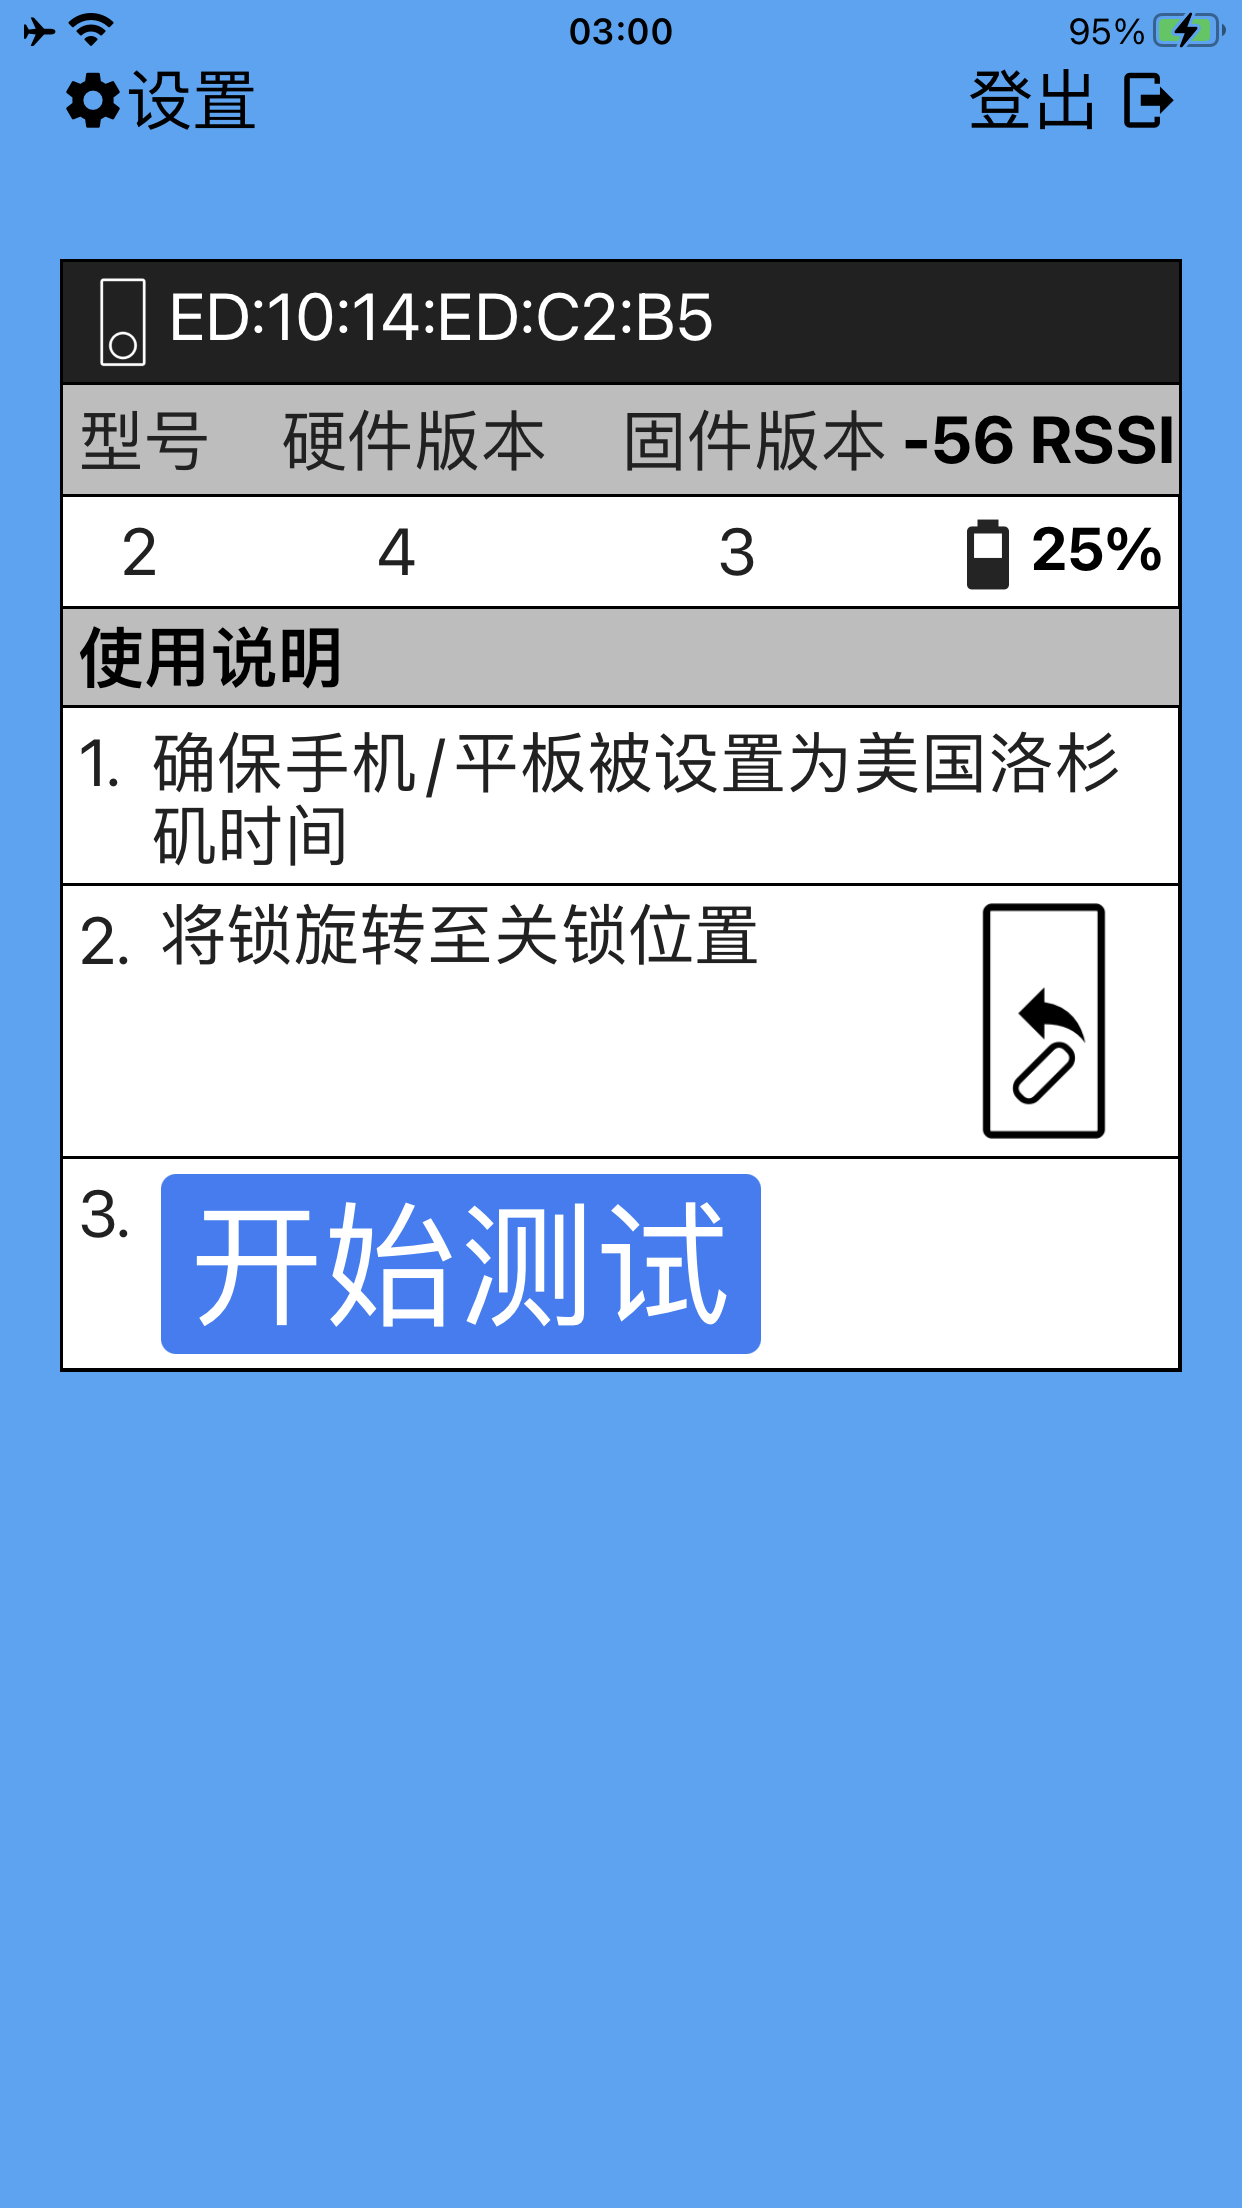
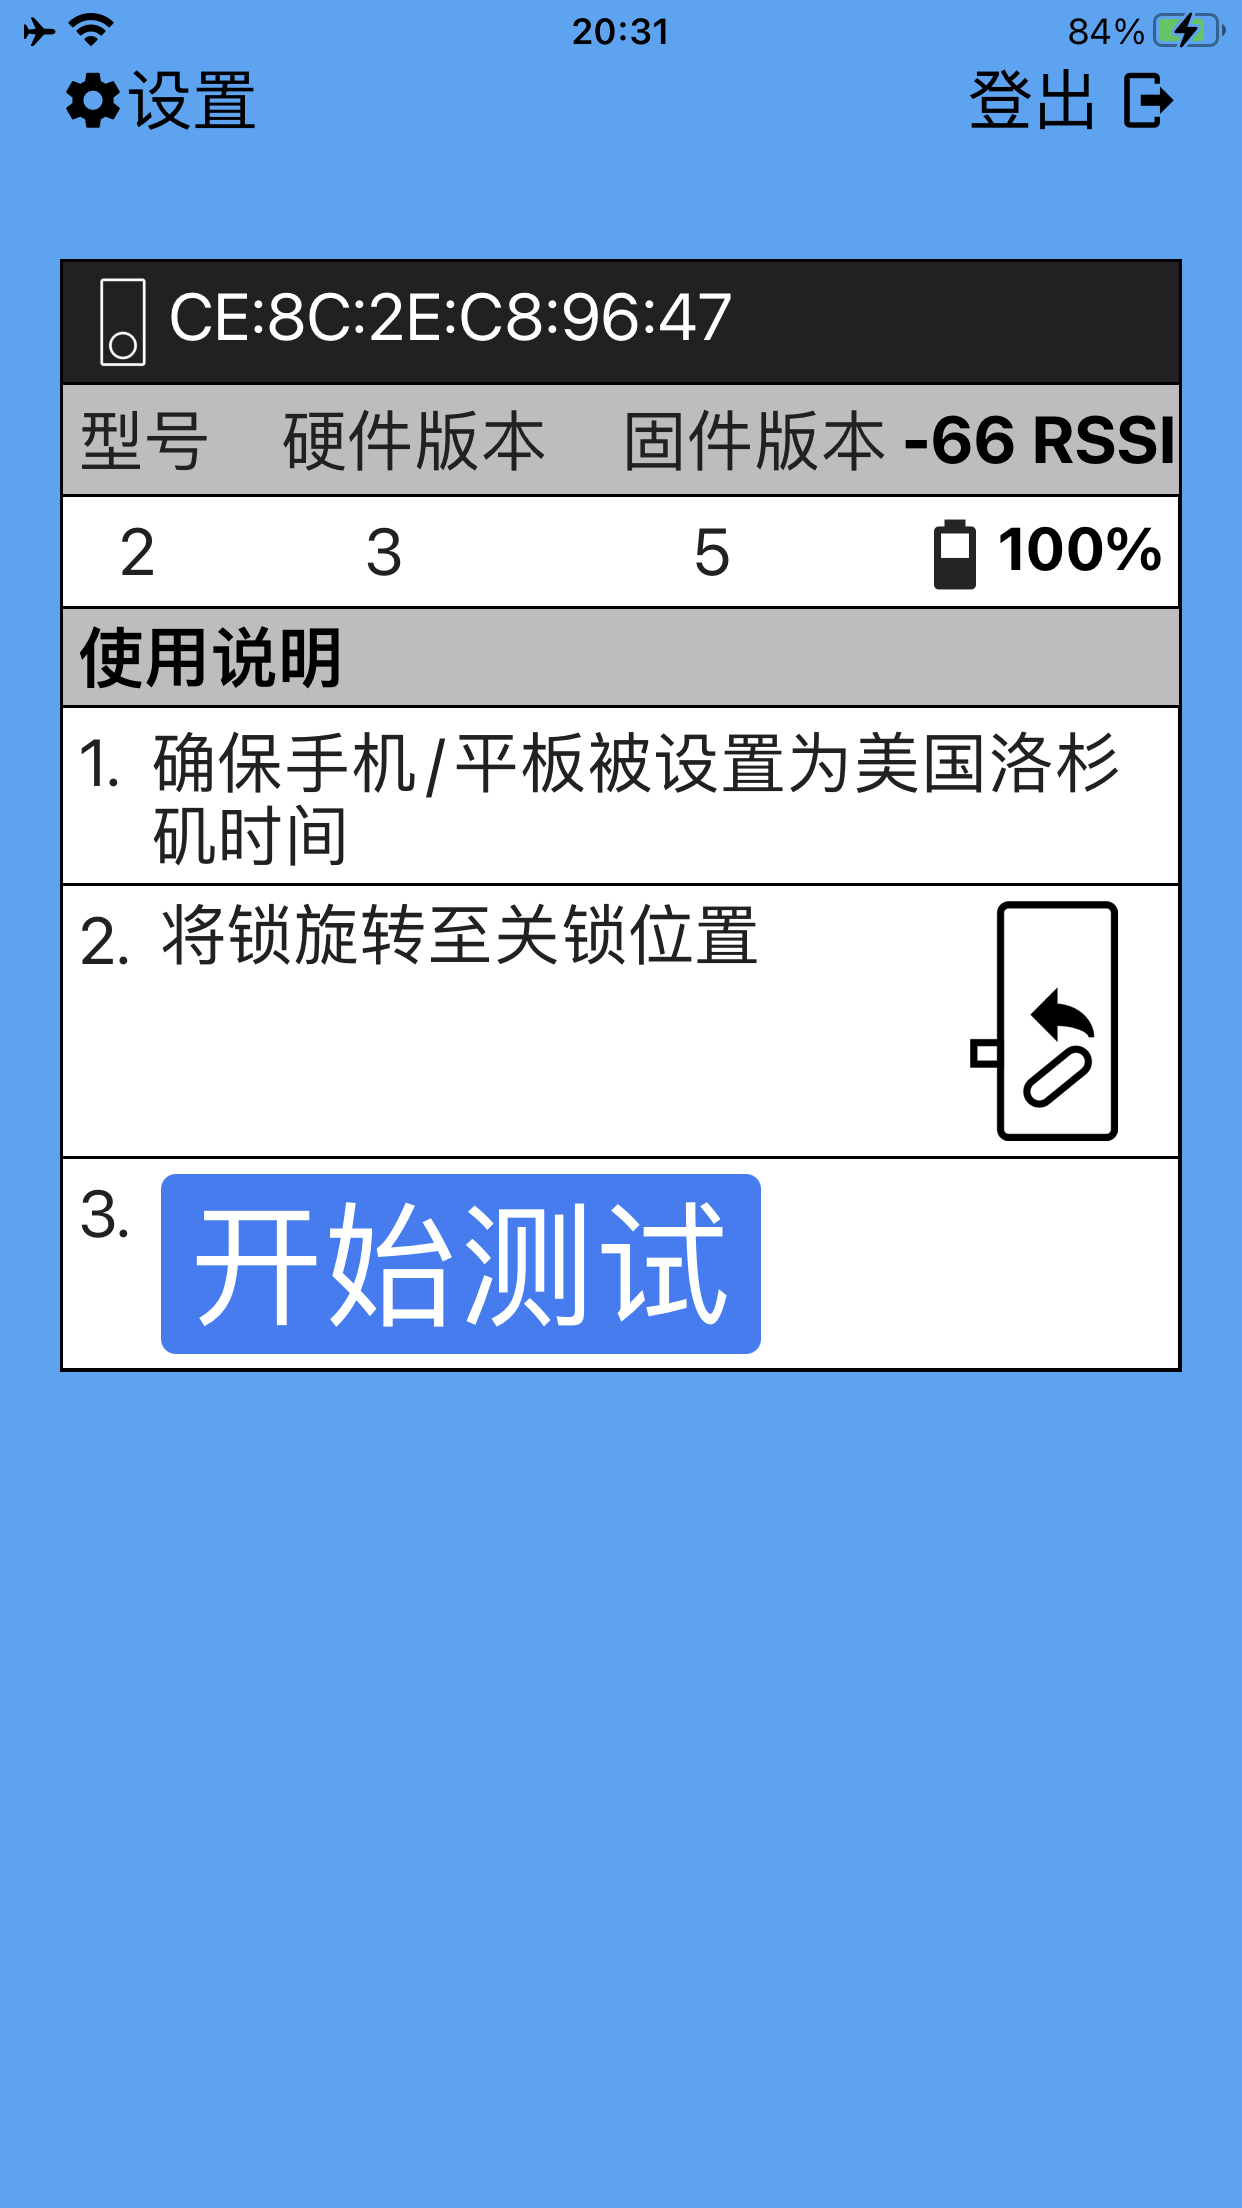
update introduction image all API call will throw error add sapphire and white team env show version number fix Alert.alert conflicts

diff --git a/app/store/sagas/testSaga.js b/app/store/sagas/testSaga.js
@@ -33,7 +33,7 @@ import {
   gotOfflineCode,
   uploadSerialNoFailed,
   uploadSerialNoSuccess,
-  endTest,
+  // endTest,
   clearTest,
 } from '../actions/testActions';
 import API from '../../services/API';
@@ -46,7 +46,7 @@ import { SUCCESS } from '../actions/types';
 
 export function* verifyBroadcastInfoAsync({ payload: lockObj }) {
   const { lockMac, modelNum, hardwareVer, firmwareVer, rssi, battery } = lockObj;
-  const { locks:{ criteria } } = yield select();
+  const { criteria } = yield select(state => state.locks);
   yield put(verifyBroadcastInfo({ lockMac, modelNum, hardwareVer, firmwareVer, rssi, battery }));
 
   const errors = [];
@@ -57,8 +57,7 @@ export function* verifyBroadcastInfoAsync({ payload: lockObj }) {
   if (battery > 100 || battery < criteria.battery) errors.push(strings('Test.InvalidBattery'));
   if (errors.length === 0) {
     try {
-      const res = yield API.addLockToDMS(lockObj.lockMac, lockObj.deviceID);
-      if (!res.success) throw new Error('/addLockToDMS API failed: ' + JSON.stringify(res));
+      yield API.addLockToDMS(lockObj.lockMac, lockObj.deviceID);
       return yield put(verifyBroadcastInfoSuccess());
     } catch (error) {
       return yield put(verifyBroadcastInfoFailed(error));
@@ -88,7 +87,6 @@ export function* initializeLockAsync() {
   const { test: { lockObj }, auth: { isB2b } } = yield select();
   try {
     yield lockObj.addAdministrator();
-    //TODO test reset button
     if (!isB2b) yield lockObj.setResetButton(true);
     yield put(initializeLockSuccess());
   } catch (error) {
@@ -98,7 +96,7 @@ export function* initializeLockAsync() {
 
 export function* testRTCAsync() {
   yield put(testRTC());
-  const { test: { lockObj } } = yield select();
+  const { lockObj } = yield select(state => state.test);
   try {
     const promise = API.setDeviceTimezone(lockObj.lockMac, lockObj.deviceAuthToken);
     yield lockObj.setLockTime();
@@ -109,8 +107,7 @@ export function* testRTCAsync() {
     if (diff < 0 || diff > 5000) {
       throw new Error(strings('Test.RTCError') + (diff / 1000) + 's. ' + strings('Test.RTCRange'));
     }
-    const res = yield promise;
-    if (!res.success) throw new Error('/setDeviceTimezone API failed: ' + JSON.stringify(res));
+    yield promise;
     yield put(testRTCSuccess());
   } catch (error) {
     yield put(testRTCFailed(error));
@@ -119,7 +116,7 @@ export function* testRTCAsync() {
 
 export function* testHallAsync() {
   yield put(testHall());
-  const { test: { lockObj } } = yield select();
+  const { lockObj } = yield select(state => state.test);
   try {
     yield lockObj.unlock();
     yield put(testHallSuccess());
@@ -130,7 +127,7 @@ export function* testHallAsync() {
 
 export function* testDoorSensorAsync() {
   yield put(testDoorSensor());
-  const { test: { lockObj } } = yield select();
+  const { lockObj } = yield select(state => state.test);
   try {
     const { doorSensorEnabled } = yield lockObj.isDoorSensorEnabled();
     if (!doorSensorEnabled) throw new Error(strings('Test.doorSensorDisabled'));
@@ -142,7 +139,7 @@ export function* testDoorSensorAsync() {
 
 export function* testTouchKeyAsync() {
   yield put(testTouchKey());
-  const { test: { lockObj } } = yield select();
+  const { lockObj } = yield select(state => state.test);
   try {
     // const { keys } = yield lockObj.sendFactoryTestingCommand(1);
     // if (!keys.every(key => key === true)) {
@@ -158,7 +155,7 @@ export function* testTouchKeyAsync() {
 
 export function* testNfcChipAsync() {
   yield put(testNfcChip());
-  const { test: { lockObj } } = yield select();
+  const { lockObj } = yield select(state => state.test);
   try {
     // let { fobNumber } = yield lockObj.sendFactoryTestingCommand(2);
     // fobNumber = parseInt(fobNumber, 16).toString().padStart(10, '0');
@@ -176,7 +173,7 @@ export function* testNfcChipAsync() {
 
 export function* testAutoLockAsync() {
   yield put(testAutoLock());
-  const { test: { lockObj } } = yield select();
+  const { lockObj } = yield select(state => state.test);
   try {
     yield lockObj.setAutoLockTime(1);
     yield put(testAutoLockSuccess());
@@ -195,10 +192,6 @@ export function* testOfflineCodeAsync() {
     const req1 = API.createAutoCode(lockMac, deviceAuthToken);
     const req2 = API.updateDeviceBySuperAdmin(params);
     const res = yield Promise.all([req1, req2]);
-    // if (!res[0].success) throw res[0];
-    if (!res[0].success) throw new Error('/createAutoCode API failed: ' + JSON.stringify(res[0]));
-    // if (!res[1].success) throw res[1];
-    if (!res[1].success) throw new Error('/updateDeviceBySuperAdmin API failed: ' + JSON.stringify(res[1]));
     yield put(gotOfflineCode(res[0].code));
   } catch (error) {
     yield put(testOfflineCodeFailed(error));
@@ -228,10 +221,13 @@ export function* uploadSerialNoAsync({ payload: serialNoStr }) {
       throw new Error(serialNoStr + ' - ' + strings('Test.invalidSN'));
     }
     const params = { deviceMac: lockMac, batchNum: batchNo, serialNo };
-    const res = yield API.updateDeviceBySuperAdmin(params);
-    if (!res.success) {
-      if (res.errorCode === 1201) throw new Error(serialNoStr + ' - ' + strings('Test.duplicateSN'));
-      throw new Error(serialNoStr + ' - ' + '/updateDeviceBySuperAdmin API failed: ' + JSON.stringify(res));
+    try {
+      yield API.updateDeviceBySuperAdmin(params);
+    } catch (error) {
+      if (error.message.slice(-5, -1) === '1201') {
+        throw new Error(strings('Test.duplicateSN'));
+      }
+      throw error;
     }
     if (localServerIp) {
       yield postToLocalServer(localServerIp, serialNoStr).catch(error => {
@@ -246,11 +242,9 @@ export function* uploadSerialNoAsync({ payload: serialNoStr }) {
 }
 //TODO add all incomplete cases
 export function* uploadTestRecordAsync({ payload: isReset }) {
-  // yield put(uploadTestRecord());
   const {
     lockObj: { lockMac },
     testBroadcastState,
-    // registerLockToDMSState,
     initLockState,
     testRTCState,
     testHallState,
@@ -263,10 +257,8 @@ export function* uploadTestRecordAsync({ payload: isReset }) {
     serialNo,
     error,
   } = yield select(state => state.test);
-  // const test = yield select(state => state.test);
 
   let errorCode = (testBroadcastState !== SUCCESS) ? 1 :
-    // (registerLockToDMSState !== SUCCESS) ? 2 :
     (initLockState !== SUCCESS) ? 2 :
       (testRTCState !== SUCCESS) ? 3 :
         (testHallState !== SUCCESS) ? 4 :
@@ -282,7 +274,6 @@ export function* uploadTestRecordAsync({ payload: isReset }) {
     const errorInfo = [
       'Success',
       'Verify broadcast failed',
-      // 'Register to DMS failed',
       'Init failed',
       'Test RTC failed',
       'Test hall failed',

diff --git a/app/screens/TestModal/index.js b/app/screens/TestModal/index.js
@@ -23,6 +23,7 @@ import {
   endTest,
 } from '../../store/actions/testActions';
 import { strings } from '../../utils/i18n';
+import { Alert_alertIOS } from '../../utils';
 
 const Step1 = () => {
   const {
@@ -207,7 +208,6 @@ const RetryButton = ({ no }) => {
       retry = () => dispatch(testNfcChipSuccess(fobNumber));
       break;
     case '9':
-      //TODO implement and test error case of offline code
       retry = () => dispatch(testAutoLockSuccess());
       break;
     default:
@@ -279,7 +279,7 @@ class TestModal extends PureComponent {
     ]);
   };
 
-  resetFailed = async () => Alert.alert(strings('Test.resetFailed'), strings('Test.resetFailedInfo'), [
+  resetFailed = async () => Alert_alertIOS(strings('Test.resetFailed'), strings('Test.resetFailedInfo'), [
     { text: strings('Test.cancel'), onPress: () => {} },
     { text: strings('Home.reset'), onPress: this.resetAgain },
     { text: strings('Test.backHome'), onPress: async () => await this.endTest(false) },
@@ -292,11 +292,14 @@ class TestModal extends PureComponent {
         await this.props.lockObj.setLockTime();
         await this.props.lockObj.resetLock();
       } catch (error) {
-        return this.setState({ loading: false }, () => setTimeout(this.resetFailed, 150));
+        return this.setState({ loading: false }, this.resetFailed);
       }
       this.setState({ loading: false }, async () => {
         await this.endTest(true);
-        setTimeout(() => Toast.show(strings('Home.resetSuccess'), Toast.SHORT), 300);
+        Toast.show(strings('Home.resetSuccess'), Toast.SHORT, [
+          'RCTModalHostViewController',
+          'UIAlertController',
+        ]);
       });
     });
 
@@ -309,7 +312,6 @@ class TestModal extends PureComponent {
     }
   };
 
-  //TODO reorder steps
   render() {
     return (
       <Modal visible={this.props.testState !== types.NOT_STARTED}>

diff --git a/app/components/ListItem.js b/app/components/ListItem.js
@@ -20,7 +20,7 @@ import { requestTest } from '../store/actions/testActions';
 // import { clearLocks } from '../redux/locks';
 import { strings } from '../utils/i18n';
 import API from '../services/API';
-import { alertIOS, alertIOSwithParams } from '../utils';
+import { alertIOS, Alert_alertIOS } from '../utils';
 // import { startTest1 } from '../redux/test1';
 // import { startTest2 } from '../redux/test2';
 
@@ -87,7 +87,7 @@ class ListItem extends PureComponent {
       const errorMessage =
         typeof error === 'object' ? error.message :
           typeof error === 'string' ? error : 'unknown';
-      this.props.onChangeLoading(false, () => alertIOSwithParams(strings('Home.resetFailed'), 'Error: ' + errorMessage));
+      this.props.onChangeLoading(false, () => Alert_alertIOS(strings('Home.resetFailed'), 'Error: ' + errorMessage));
     // } finally {
     //   this.props.clearLocks(lockObj.lockMac);
     }
@@ -180,7 +180,7 @@ class ListItem extends PureComponent {
             <Text style={styles.text}>{'2.  '}</Text>
             <Text style={styles.flexText}>{strings('Home.turnThumbturn')}</Text>
             <Image
-              source={require('../assets/unlock.png')}
+              source={require('../assets/lock.png')}
               style={styles.image}
               resizeMode='contain'/>
           </View>

diff --git a/app/store/reducers/locksReducer.js b/app/store/reducers/locksReducer.js
@@ -1,5 +1,5 @@
 import {
-  UPDATE_LOCK,
+  FIND_LOCK,
   CLEAR_LOCKS,
   SET_INDEX,
   SET_ENABLED,
@@ -17,15 +17,17 @@ import {
 } from '../../services/BleLibrary/lib';
 import API from '../../services/API';
 
-const libraryObj = new OaksBleLockLibrary(API.getDeviceToken, new RNBlePlugin(), new PersistencePlugin());
+const libraryObj = new OaksBleLockLibrary(
+  API.getDeviceToken,
+  new RNBlePlugin(),
+  new PersistencePlugin(),
+);
 libraryObj.timezoneString = 'Pacific Time (US & Canada)';
 const defaultState = {
   touchedLocks: [],
   settingLocks: [],
   nonSettingLocks: [],
-  codes: {}, //TODO
   libraryObj,
-  // isDevelopmentMode: false,
   criteria: {
     model: '',
     hardwareVer: '',
@@ -44,7 +46,7 @@ const defaultState = {
 export default (state = defaultState, action) => {
   const { type, payload, error } = action;
   switch (type) {
-    case UPDATE_LOCK:
+    case FIND_LOCK:
       return state;
 
     case UPDATE_LOCKS:

diff --git a/app/screens/Instruction/index.js b/app/screens/Instruction/index.js
@@ -1,6 +1,6 @@
 import React from 'react';
 import Icon from 'react-native-vector-icons/Ionicons';
-import { Image, StyleSheet, Text, View } from 'react-native';
+import { Image, Text, View } from 'react-native';
 import AppIntroSlider from 'react-native-app-intro-slider';
 import AsyncStorage from '@react-native-async-storage/async-storage';
 
@@ -31,7 +31,7 @@ const slides = [
   {
     key: 'four',
     title: '第四步 - 测试进行',
-    text: '1. 共11个测试项目\n2. 请根据提示完成对应操作\n3. 如有错误按照提示尝试修复，无法修复则汇报\n4. 所有都通过点击完成，继续下一把锁',
+    text: '1. 共10个测试项目\n2. 请根据提示完成对应操作\n3. 如有错误按照提示尝试修复，无法修复则汇报\n4. 所有都通过点击"完成"，继续下一把锁',
     image: require('../../assets/4.png'),
     backgroundColor: 'rgb(98, 177, 91)',
   },

diff --git a/app/store/sagas/locksSaga.js b/app/store/sagas/locksSaga.js
@@ -1,9 +1,9 @@
 import { put, select } from 'redux-saga/effects';
 
-import { getMaximumSerialNoFailed, getMaximumSerialNoSuccess, updateLocks } from "../actions/locksActions";
-import API from "../../services/API";
+import { getMaximumSerialNoFailed, getMaximumSerialNoSuccess, updateLocks } from '../actions/locksActions';
+import API from '../../services/API';
 
-export function* updateLockAsync({ payload }) {
+export function* updateLocksAsync({ payload }) {
   let { locks: { touchedLocks, settingLocks, nonSettingLocks, libraryObj } } = yield select();
   const { lockMac, touch, settingMode, battery, rssi } = payload;
   const index = touchedLocks.findIndex(lock => lock.lockMac === lockMac);
@@ -32,4 +32,4 @@ export function* getMaximumSerialNoAsync({ payload }) {
   } catch (error) {
     yield put(getMaximumSerialNoFailed(error));
   }
-};
+}

diff --git a/app/screens/Login/index.js b/app/screens/Login/index.js
@@ -31,6 +31,8 @@ const APIs = [
   { value: 'Red' },
   { value: 'Black' },
   { value: 'Green' },
+  { value: 'Sapphire' },
+  { value: 'White' },
   { value: 'QE' },
 ];
 if (__DEV__) {
@@ -237,7 +239,10 @@ class Login extends Component {
             </TouchableHighlight>
           </View>
         </ScrollView>
-        <Text>local server: {this.state.localServerIp || 'none'}</Text>
+        <View style={{ flexDirection: 'row' }}>
+          <Text testID="local-server" accessibilityLabel="local-server" style={{ padding: 10 }}>local server: {this.state.localServerIp || 'none'}</Text>
+          <Text testID="version" accessibilityLabel="version" style={{ padding: 10 }}>Version: {require('../../../package.json').version}</Text>
+        </View>
       </SafeAreaView>
     );
   }

diff --git a/app/store/sagas/index.js b/app/store/sagas/index.js
@@ -18,7 +18,7 @@ import {
   uploadTestRecordAsync,
 } from './testSaga';
 
-import { getMaximumSerialNoAsync, updateLockAsync } from './locksSaga';
+import { getMaximumSerialNoAsync, updateLocksAsync } from './locksSaga';
 
 export default function* rootSaga() {
   yield takeLatest(types.LOGIN_REQUEST, loginAsync);
@@ -35,6 +35,6 @@ export default function* rootSaga() {
   yield takeEvery(types.UPLOAD_SERIAL_N0_PENDING, uploadSerialNoAsync);
   // yield takeLatest(types.END_TEST_REQUEST, endTestAsync);
   yield takeEvery(types.END_TEST, uploadTestRecordAsync);
-  yield takeEvery(types.UPDATE_LOCK, updateLockAsync);
+  yield takeEvery(types.FIND_LOCK, updateLocksAsync);
   yield takeEvery(types.GET_MAX_SERIAL_NUM_PENDING, getMaximumSerialNoAsync);
 }

diff --git a/app/services/API/axios.js b/app/services/API/axios.js
@@ -33,6 +33,14 @@ instance.interceptors.request.use(async (config) => {
   return newConfig;
 });
 
-//TODO responseError
+instance.interceptors.response.use(response => {
+  console.log(`res: ${response.config.url} ${JSON.stringify(response.data)}`);
+  const { data = {} } = response;
+  const { success = true, message, errorCode } = data;
+  if (!success) {
+    return Promise.reject(new Error(`${response.config.url} -> ${message}${errorCode ? (`, [errorCode: ${errorCode}]`) : ''}`));
+  }
+  return response;
+});
 
 export default instance;

diff --git a/app/utils/Constants.ts b/app/utils/Constants.ts
@@ -8,5 +8,7 @@ export const MapUrl = [
   { name: 'Green', url: 'keyless.rentlygreen.com' },
   { name: 'QE', url: 'keyless.rentlyqe.com' },
   { name: 'Certify', url: 'keyless.rentlycertify.com' },
+  { name: 'Sapphire', url: 'keyless.rentlysapphire.com' },
+  { name: 'White', url: 'keyless.rentlywhite.com' },
   { name: '192.168.2.8:3000', url: '192.168.2.8:3000' },
 ];

diff --git a/app/screens/Settings/index.js b/app/screens/Settings/index.js
@@ -54,7 +54,6 @@ const FobNumberInput = ({ callback, value }) => {
       placeholder={strings('Settings.fobNumber')}
       value={fobNumber}
       leftIcon={{ type: 'font-awesome', name: 'credit-card' }}
-      style={styles} //TODO fix style
       errorMessage={errorMessage}
       onChangeText={text => {
         setFobNumber(text);

diff --git a/app/store/actions/types.ts b/app/store/actions/types.ts
@@ -6,7 +6,7 @@ export const LOGIN_FAILED = 'LOGIN_FAILED';
 export const LOGOUT_REQUEST = 'LOGOUT_REQUEST';
 
 //locks
-export const UPDATE_LOCK = 'UPDATE_LOCK';
+export const FIND_LOCK = 'FIND_LOCK';
 export const UPDATE_LOCKS = 'UPDATE_LOCKS';
 export const CLEAR_LOCKS = 'CLEAR_LOCKS';
 
